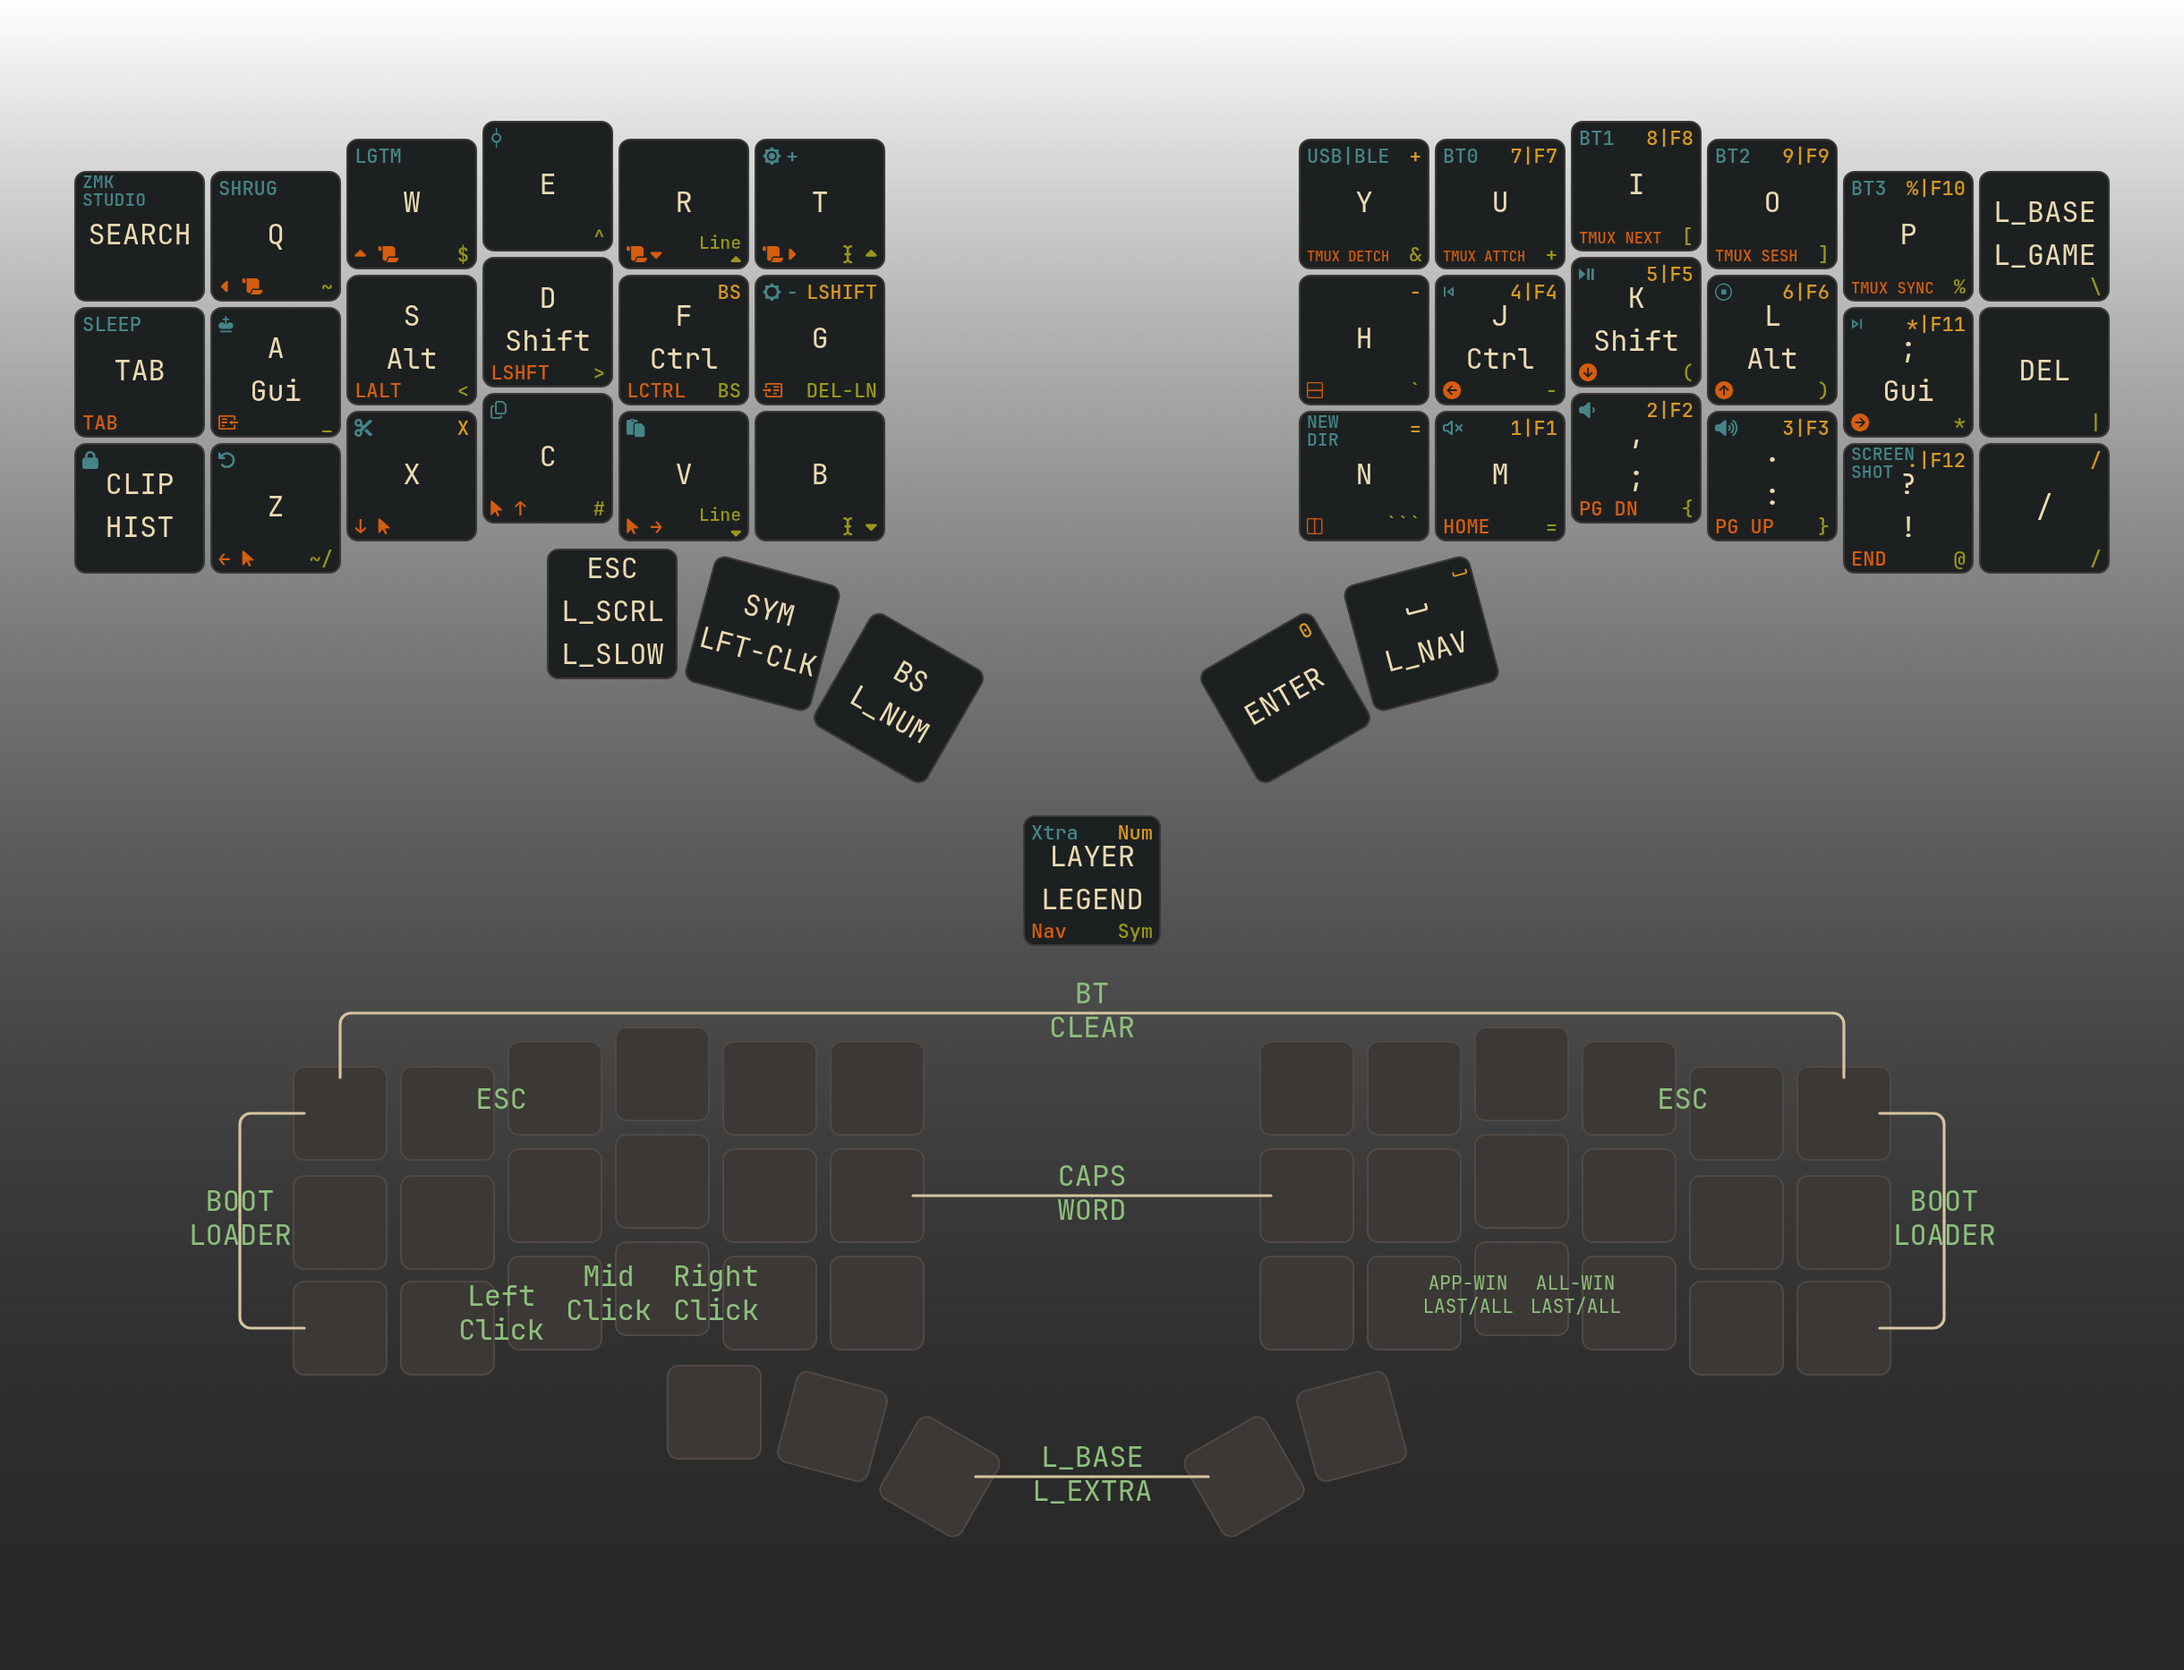
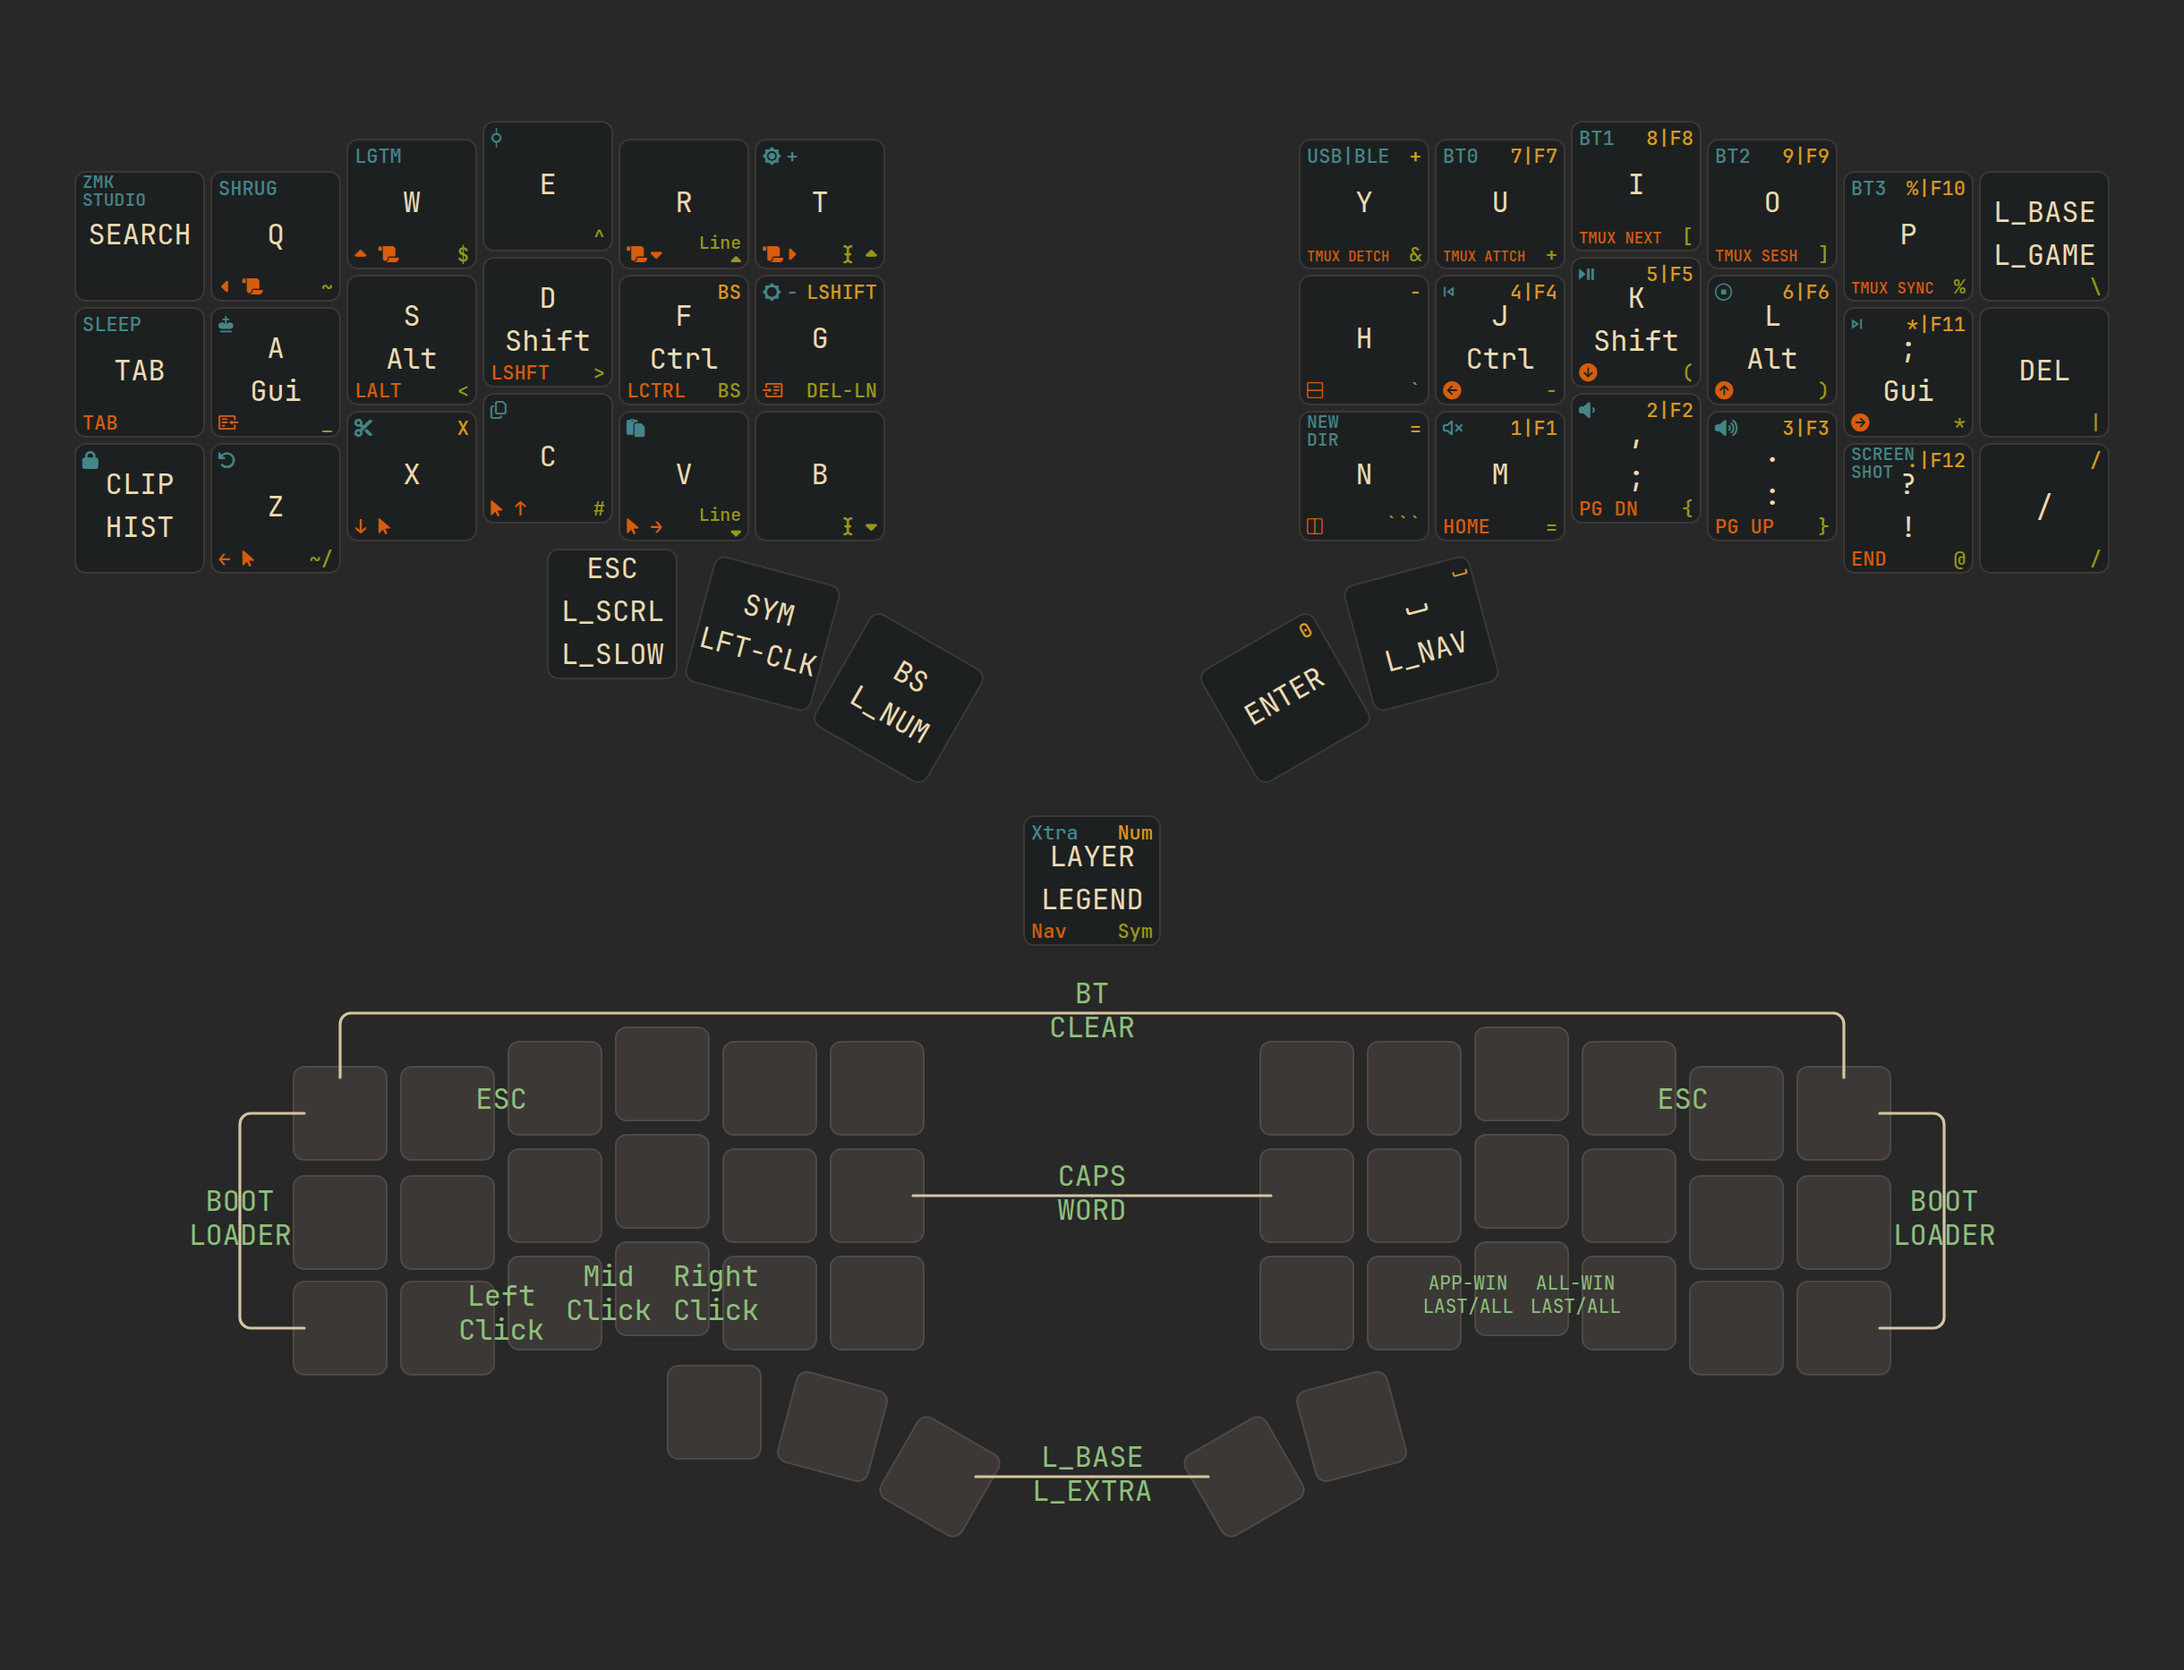
remove the background gradiant and convert to solid color

diff --git a/scripts/render_stacked_composite.js b/scripts/render_stacked_composite.js
@@ -10,7 +10,7 @@ const { chromium } = require('playwright');
  *   2) legend.svg (optional)
  *   3) combos.svg
  * - Injects them into keymap-drawer/stacked/composite-template.html
- * - Applies workflow-controlled styling/layout (gradient background, spacing, trims, alpha)
+ * - Applies workflow-controlled styling/layout (solid background, spacing, trims, alpha)
  * - Captures a PNG (default: keymap-drawer/stacked/stacked-combos.png)
  *
  * How it is used:
@@ -20,7 +20,7 @@ const { chromium } = require('playwright');
  *   node scripts/render_stacked_composite.js
  *
  * Main env knobs (set in draw_keymaps.yml):
- * - KEYMAP_BG / KEYMAP_BG_END   : composite gradient colors
+ * - KEYMAP_BG                   : composite background color
  * - KEYMAP_OUTPUT               : output PNG path (used for dark/light variants)
  * - KEYMAP_STYLE_THEME          : key/legend palette theme ("dark" or "light"), defaults to dark
  * - KEYMAP_CORNER_LEGEND_WRAP_OVERRIDES: JSON list of corner-wrap overrides
@@ -41,8 +41,7 @@ const combosSvgPath = 'keymap-drawer/stacked/combos.svg';
 const legendSvgPath = 'keymap-drawer/stacked/legend.svg';
 const outputPngPath = process.env.KEYMAP_OUTPUT || 'keymap-drawer/stacked/stacked-combos.png';
 
-const bg = process.env.KEYMAP_BG || '#2F4858';
-const bgEnd = process.env.KEYMAP_BG_END || '#272727';
+const bg = process.env.KEYMAP_BG || '#282828';
 const alphaCapture = ['1', 'true', 'yes', 'on'].includes((process.env.KEYMAP_ALPHA || '0').toLowerCase());
 const gap = Number.parseInt(process.env.KEYMAP_GAP || '0', 10);
 const margin = Number.parseInt(process.env.KEYMAP_MARGIN || '10', 10);
@@ -177,7 +176,6 @@ const legendBlock = legendOn
 
 let html = fs.readFileSync(templatePath, 'utf8');
 html = html.replaceAll('__KEYMAP_BG__', bg);
-html = html.replaceAll('__KEYMAP_BG_END__', bgEnd);
 html = html.replaceAll('__KEYMAP_GAP__', String(Number.isFinite(gap) ? gap : 0));
 html = html.replaceAll('__KEYMAP_MARGIN__', String(Number.isFinite(margin) ? margin : 10));
 html = html.replaceAll('__STACKED_SRC__', stackedSrc);

diff --git a/keymap-drawer/stacked/composite-template.html b/keymap-drawer/stacked/composite-template.html
@@ -5,7 +5,7 @@
     <style>
       body {
         margin: 0;
-        background: linear-gradient(to bottom, __KEYMAP_BG__ 0%, __KEYMAP_BG_END__ 100%);
+        background: __KEYMAP_BG__;
       }
       #wrap {
         display: flex;
@@ -13,7 +13,7 @@
         align-items: center;
         gap: __KEYMAP_GAP__px;
         padding: __KEYMAP_MARGIN__px;
-        background: linear-gradient(to bottom, __KEYMAP_BG__ 0%, __KEYMAP_BG_END__ 100%);
+        background: __KEYMAP_BG__;
         width: fit-content;
         height: fit-content;
       }

diff --git a/keymap-drawer/README.md b/keymap-drawer/README.md
@@ -18,10 +18,7 @@
 - Theme ownership:
   - Key/legend/border theme palettes live in the config files under `draw_config.svg_extra_style` using `--*-dark` and `--*-light` CSS variables.
   - Each config has active aliases (`--stack-*`, `--combo-*`, `--all-*`) that currently default to dark values. Switch aliases to `*-light` vars to preview light key/legend colors in that SVG.
-  - Composite background gradient is not part of keymap-drawer output and is set in `.github/workflows/draw_keymaps.yml` (`KEYMAP_BG_*`, `KEYMAP_BG_END_*`).
-- Background gradients are set via:
-  - Dark: `KEYMAP_BG_DARK` (top) and `KEYMAP_BG_END_DARK` (bottom)
-  - Light: `KEYMAP_BG_LIGHT` (top) and `KEYMAP_BG_END_LIGHT` (bottom)
+  - Composite background color is not part of keymap-drawer output and is set in `.github/workflows/draw_keymaps.yml` (`KEYMAP_BG_DARK`, `KEYMAP_BG_LIGHT`).
 - Keycap fill is set in each config under `draw_config.svg_extra_style` (`rect.key { fill: ... }`).
 - Key size: `key_w`, `key_h`; corner rounding: `key_rx`, `key_ry`.
 - Legend inset: adjust `transform: translate(...)` on `text.tl/tr/bl/br` in the configs.
@@ -36,8 +33,8 @@
    - `stacked-combos-light.png`
 
 ### Env knobs (workflow)
-- `KEYMAP_BG_DARK` / `KEYMAP_BG_END_DARK` — dark-theme composite gradient start/end colors.
-- `KEYMAP_BG_LIGHT` / `KEYMAP_BG_END_LIGHT` — light-theme composite gradient start/end colors.
+- `KEYMAP_BG_DARK` — dark-theme composite background color.
+- `KEYMAP_BG_LIGHT` — light-theme composite background color.
 - `KEYMAP_STYLE_THEME` — palette selection applied to stacked/combos/legend SVG aliases before capture (`dark` or `light`).
 - `KEYMAP_ALPHA` — when `1`, Playwright captures with alpha (`omitBackground: true`). Default `1`.
 - `KEYMAP_GAP` — vertical gap between stacked and combos (pixels). Default `0px`. Typical range: `0px` (touching) to `40px` (roomy).
@@ -64,7 +61,6 @@ Quick presets:
 
 ### Quick edit points
 - Background only: change the dark/light `KEYMAP_BG_*` env vars in the workflow.
-- Composite gradient end color: change the dark/light `KEYMAP_BG_END_*` env vars in the workflow.
 - Alpha output for composite PNGs: set `KEYMAP_ALPHA=1` and use alpha-capable CSS colors (for example `rgba(13,17,23,0)`).
 - Keycap color: change `rect.key { fill: ... }` in the relevant config under `keymap-drawer/configs/`.
 - Combo box color: change `rect.combo, rect.combo-separate { fill: ... }` in the relevant config under `keymap-drawer/configs/`.
